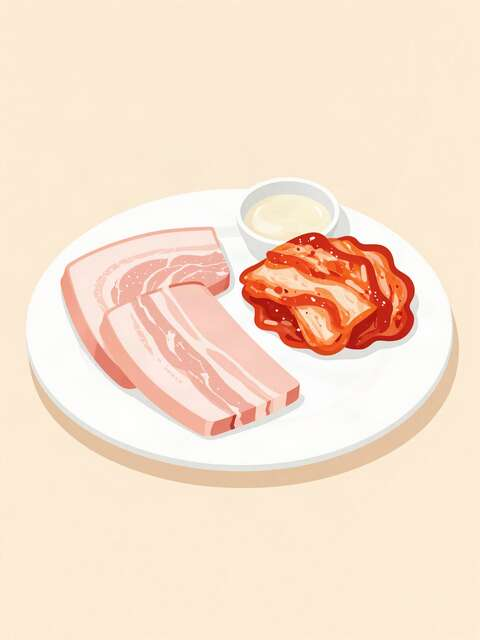
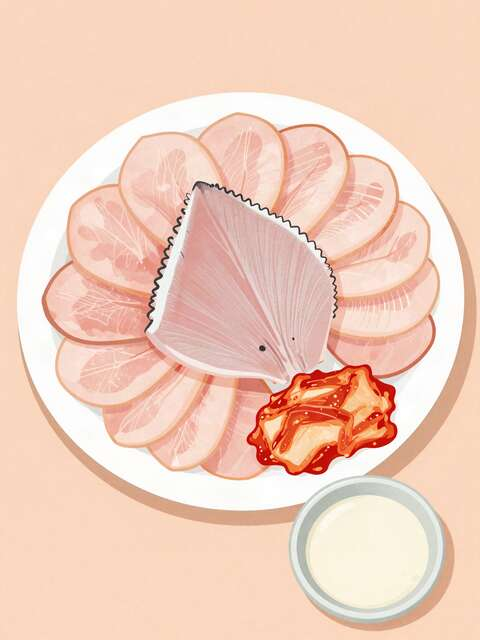
Make fermented skate the hero of every food image
Image prompts now state in Korean and English that hongeo must be the
largest, front-most, in-focus subject, with pork, kimchi and makgeolli
as small sides. The carousel plan prompt asks each visualPrompt to say
the same. Sample photos are replaced with skate-first shots.

Claude-Session: https://claude.ai/code/session_01Twz19aiAG1RqHZgcTnW9gz

diff --git a/src/features/images/carousel.ts b/src/features/images/carousel.ts
@@ -119,7 +119,7 @@ export function buildCarouselPlanPrompt(input:CarouselPlanInput):string {
     `[문체] headline과 points는 모두 가까운 사람에게 말하듯 자연스러운 해요체의 완결된 문장이나 질문으로 쓰세요. "~느껴보기", "~의 세계", "~한 세트", "~의 역사"처럼 명사로 끝나는 슬로건, "미식의 향연", "풍미 가득", "놓치지 마세요" 같은 광고 상투어, 느낌표 남발은 금지합니다. 각 headline은 짧은 한국어(12~30자)로 한 가지 정보만 전달하고 같은 뜻의 제목을 반복하지 마세요. 표지를 제외한 각 장에는 points 배열로 2~${SLIDE_POINT_MAX_COUNT}개의 요점을 넣으세요. 요점 하나는 한 줄(12~28자)로 headline을 반복하지 말고, "무엇이 어떻게 다른지" 눈이나 입으로 확인할 수 있는 구체적인 정보(차이점, 먹는 순서, 어울리는 조합, 확인할 점)를 쓰세요. 감각을 꾸미는 추상적 비유("입안의 리듬", "감촉을 선사") 대신 "얇게 썰려 빛에 비치면 결이 보여요"처럼 관찰 그대로 쓰세요. 표지의 points는 빈 배열로 두세요.`,
     `[사실 기준] 홍어의 향이 사라진다거나 누구나 좋아한다고 보장하지 마세요. 홍어회와 홍어전·찜·무침의 조리법을 구분하고 선택 주제에 없는 삼합 구성을 강제하지 마세요. 확인되지 않은 가격, 원산지, 영업시간, 매장 정보는 headline과 points 어디에도 만들지 마세요.`,
     // 장면 다양성: 같은 접시를 거리만 바꿔 다섯 번 찍지 않도록, 장면 유형과 사람 요소를 장마다 다르게 배정한다.
-    `[장면] visualPrompt는 각 장의 headline과 points가 말하는 내용을 그대로 보여 주는 ${style.scene}으로 쓰세요. 장마다 장면 유형을 다르게 고르세요: 완성된 한 상(45도 또는 눈높이), 한 점의 질감(매크로), 젓가락으로 집거나 재료를 올리는 손, 함께 먹는 식탁(여러 손과 잔, 뒷모습), 준비 과정, 곁들임과의 조합. ${Math.max(2,Math.ceil(parsed.slideCount/2))}장 이상에는 손, 젓가락, 잔, 뒷모습처럼 사람이 먹고 있다는 느낌이 드는 요소를 넣되 얼굴은 프레임 밖에 두거나 식별되지 않게 하세요. 촬영 거리, 각도, 피사체 배치가 앞 장과 겹치지 않게 쓰고 이미지 안 글자나 로고를 요청하지 마세요.`,
+    `[장면] visualPrompt는 각 장의 headline과 points가 말하는 내용을 그대로 보여 주는 ${style.scene}으로 쓰세요. 장마다 장면 유형을 다르게 고르세요: 완성된 한 상(45도 또는 눈높이), 한 점의 질감(매크로), 젓가락으로 집거나 재료를 올리는 손, 함께 먹는 식탁(여러 손과 잔, 뒷모습), 준비 과정, 곁들임과의 조합. ${Math.max(2,Math.ceil(parsed.slideCount/2))}장 이상에는 손, 젓가락, 잔, 뒷모습처럼 사람이 먹고 있다는 느낌이 드는 요소를 넣되 얼굴은 프레임 밖에 두거나 식별되지 않게 하세요. 촬영 거리, 각도, 피사체 배치가 앞 장과 겹치지 않게 쓰고 이미지 안 글자나 로고를 요청하지 마세요. 음식이 나오는 모든 장면에서 홍어가 주인공입니다. visualPrompt에 홍어(또는 그 장의 홍어 요리)를 가장 크고 앞에, 초점이 맞게 둔다고 명시하고, 수육·묵은지·막걸리는 작게 곁들여지는 조연으로만 쓰세요. 집어 올리는 한 점도 홍어 조각이어야 합니다.`,
     `[디자인] ${designCatalogText()}`,
     `styleAnchor에는 전 장이 공유할 색감, 조명, 그릇, 테이블 기준과 화풍(${style.anchor})을 쓰세요. 최상위에 design 객체(palette)를 두고, 각 slide는 role, headline, points, visualPrompt, textPosition(top 또는 bottom), layout, keywords, figure를 포함해야 합니다.`,
   ].join("\n");

diff --git a/src/features/images/openaiRequest.ts b/src/features/images/openaiRequest.ts
@@ -17,6 +17,8 @@ function foodDirection(input:ImageBrief):string {
   if(!preparations.length||/홍어\s*회|삼합/.test(menuText))preparations.push("홍어회·삼합 장면의 홍어는 숙성 홍어 날개 살을 얇고 불규칙하게 썬 연한 분홍빛 또는 아이보리색 회로 표현한다. 삼합에 수육과 묵은지가 등장하면 세 재료가 구분되게 자연스럽게 겹친 한입 크기로 표현한다.");
   // 작은 이미지 모델은 '홍어'를 몰라 베이컨·햄처럼 그리기 쉬워서 영어로 무엇인지 한 번 설명한다.
   preparations.push("Hongeo is Korean fermented skate, a flat ray fish: its flesh has fine parallel fibers and thin translucent cartilage lines, never marbled fat stripes. The skate must not look like bacon, ham, sausage or pork belly.");
+  // 삼합 장면은 모델이 익숙한 수육을 크게 그리고 홍어를 뒤로 밀기 쉽다. 홍어가 주인공임을 한국어·영어로 못 박는다.
+  preparations.push("이 가게의 주인공은 홍어다. 모든 장면에서 홍어가 가장 크고 가장 앞(또는 가운데)에 초점이 맞게 놓이고, 수육·묵은지·막걸리는 더 작게 뒤나 가장자리에 조연으로만 둔다. 집어 올린 한 점은 홍어 조각이어야 하며, 수육이 홍어보다 크거나 앞에 오면 안 된다. The fermented skate is the hero of every scene: largest, closest to the camera or centered, and in focus; boiled pork and kimchi are small supporting sides behind or beside it, never larger or more prominent than the skate.");
   return preparations.join(" ")+" 이번 장면에 해당하는 조리법만 표현한다. 두꺼운 정육면체 회, 두부 같은 고기 블록, 탑처럼 높은 적층, 초밥이나 연어로 바꾸는 표현은 금지한다. 메뉴와 무관한 장식 소스는 추가하지 않는다.";
 }
 

diff --git a/tests/unit/imageRequest.test.ts b/tests/unit/imageRequest.test.ts
@@ -387,3 +387,14 @@ describe("OpenAI image request", () => {
   });
 
 });
+
+describe("hongeo stays the hero", () => {
+  it("tells the image model that the skate is largest and in front while pork and kimchi are sides", () => {
+    const prompt=buildImagePrompt({topic:"홍어 삼합",count:1,aspectRatio:"4:5",slideIndex:2,slideTotal:5,styleAnchor:"따뜻한 색온도, 흰 그릇, 짙은 나무 테이블",slide:{role:"how-to",headline:"한 점은 이렇게",points:["묵은지 위에 수육과 홍어를 올려요"],visualPrompt:"젓가락으로 삼합 한 점을 만드는 손",textPosition:"top",layout:"step",keywords:["삼합"],figure:""}});
+    expect(prompt).toContain("주인공은 홍어");
+    expect(prompt).toContain("hero of every scene");
+    expect(prompt).toContain("수육이 홍어보다 크거나 앞에 오면 안 된다");
+    // 홍어와 무관한 주제에는 붙지 않는다.
+    expect(buildImagePrompt({topic:"김치찌개",count:1,aspectRatio:"4:5",slideIndex:1,slideTotal:3,styleAnchor:"따뜻한 색온도, 흰 그릇, 짙은 나무 테이블"})).not.toContain("hero of every scene");
+  });
+});

diff --git a/tests/unit/carouselPlan.test.ts b/tests/unit/carouselPlan.test.ts
@@ -111,6 +111,9 @@ describe("carousel planning", () => {
     expect(prompt).toContain("기존 이미지 설명: 없음");
     expect(prompt).toContain("가격, 원산지, 영업시간, 매장 정보");
     expect(prompt).toContain("음식 사진 장면");
+    // 장면 설명을 쓸 때 홍어가 주인공이고 수육·묵은지는 조연이라는 규칙이 들어간다.
+    expect(prompt).toContain("홍어가 주인공입니다");
+    expect(prompt).toContain("조연");
   });
 
   it("asks for slide points, ships safe fallback points, and drops risky provider points", async () => {
